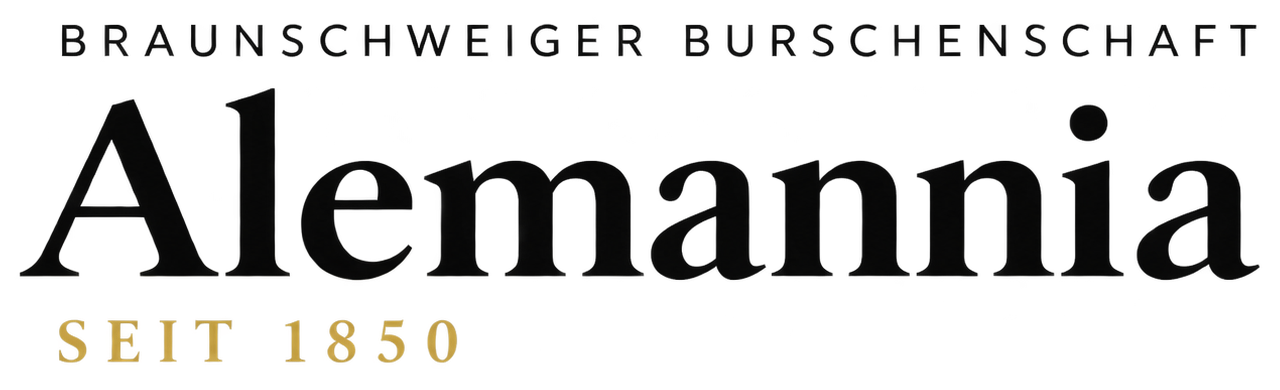
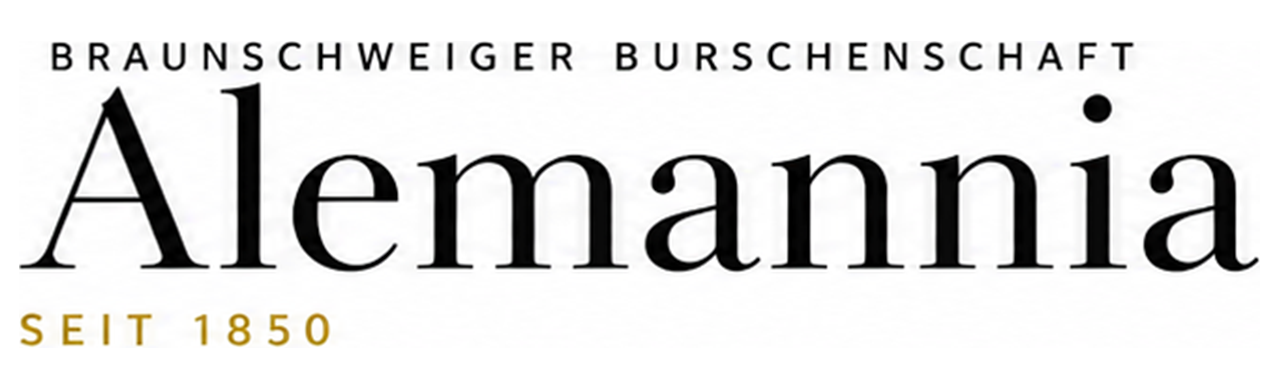
Use elegant wordmark variant

diff --git a/index.html b/index.html
@@ -10,9 +10,8 @@
   <link href="https://fonts.googleapis.com/css2?family=Cormorant+Garamond:wght@500;600&family=Newsreader:opsz,wght@6..72,500;6..72,600&family=Source+Sans+3:wght@400;500;600&display=swap" rel="stylesheet">
   <link rel="stylesheet" href="styles.css?v=20260825-11">
   <style>
-    .brand { position: relative; display: block; width: 365px; height: 112px; cursor: pointer; }
-    .brand-wordmark { width: 100%; height: 100%; object-fit: contain; object-position: left center; }
-    .brand-variant-count { position: absolute; right: 0; bottom: 0; min-width: 34px; padding: 2px 6px; color: var(--muted); background: rgba(255, 255, 255, .9); border: 1px solid var(--line); font-size: 10px; font-weight: 600; line-height: 1.4; text-align: center; }
+    .brand { display: block; width: 365px; }
+    .brand-wordmark { width: 100%; height: auto; }
     .header-crest { width: 220.8px; height: 268.8px; }
     .community-section .lead-columns { grid-template-columns: minmax(0, 760px); }
     .photo-grid { grid-template-rows: repeat(2, 305px); gap: 10px; }
@@ -79,19 +78,18 @@
       #navigation { gap: 20px; }
       #navigation a { font-size: 13px; }
       #navigation .nav-contact { padding-inline: 14px; }
-      .brand { height: 148px; padding-block: 18px; }
+      .brand { padding-block: 18px; }
       .hero { min-height: min(790px, calc(100vh - 148px)); }
     }
     @media (max-width: 1080px) {
-      .brand { width: 290px; height: 88px; }
+      .brand { width: 290px; }
       .header-crest { width: 177.6px; height: 216px; }
       #navigation { gap: 12px; }
       #navigation a { font-size: 11px; }
       #navigation .nav-contact { padding-inline: 8px; }
     }
     @media (max-width: 900px) {
-      .brand { width: 190px; height: 58px; }
-      .brand-variant-count { right: auto; bottom: -14px; left: 0; }
+      .brand { width: 190px; }
       .header-crest { width: 115.2px; height: 148.8px; }
       .values-section .section-heading { padding-right: 0; }
       .values-zirkel { position: static; width: min(70vw, 300px); height: auto; margin: 50px auto 0; }
@@ -111,7 +109,7 @@
       .room-offer-photo { min-height: 460px; }
     }
     @media (max-width: 600px) {
-      .brand { width: 170px; height: 52px; }
+      .brand { width: 170px; }
       .header-crest { width: 88.8px; height: 124.8px; }
       .house-section { width: 100%; padding-inline: 12px; }
       .house-gallery { grid-template-columns: 1fr; gap: 12px; }
@@ -122,13 +120,12 @@
       .room-offer-photo { min-height: 340px; }
     }
   </style>
-  <script src="script.js?v=20260826-1" defer></script>
+  <script src="script.js?v=20260826-2" defer></script>
 </head>
 <body>
   <header class="site-header">
-    <a class="brand" href="#start" aria-label="Wortmarke Variante 1 von 4. Klicken für die nächste Variante" title="Nächste Wortmarke anzeigen">
+    <a class="brand" href="#start" aria-label="Zur Startseite">
       <img class="brand-wordmark" src="alemannia-wortmarke.png" alt="Braunschweiger Burschenschaft Alemannia, seit 1850">
-      <span class="brand-variant-count" aria-live="polite">1 / 4</span>
     </a>
     <nav id="navigation" aria-label="Hauptnavigation">
       <a href="#gemeinschaft">Gemeinschaft</a><a href="#leben">Studentenleben</a><a href="#kontakt">Kennenlernen</a><a href="#haus">Haus &amp; Zimmer</a><a href="#werte">Werte</a><a href="#geschichte">Geschichte</a><a class="nav-contact" href="#kontakt">Kontakt</a>

diff --git a/script.js b/script.js
@@ -1,29 +1,6 @@
 const menuButton = document.querySelector(".menu-button");
 const navigation = document.querySelector("#navigation");
 const navigationLinks = [...navigation.querySelectorAll('a[href^="#"]')];
-const brand = document.querySelector(".brand");
-const brandWordmark = brand.querySelector(".brand-wordmark");
-const brandVariantCount = brand.querySelector(".brand-variant-count");
-const brandVariants = [
-  "alemannia-wortmarke.png",
-  "alemannia-header-2-klassisch.png",
-  "alemannia-header-3-elegant.png",
-  "alemannia-header-4-modern.png",
-];
-let brandVariantIndex = 0;
-
-brandVariants.slice(1).forEach((source) => {
-  const image = new Image();
-  image.src = source;
-});
-
-brand.addEventListener("click", (event) => {
-  event.preventDefault();
-  brandVariantIndex = (brandVariantIndex + 1) % brandVariants.length;
-  brandWordmark.src = brandVariants[brandVariantIndex];
-  brandVariantCount.textContent = `${brandVariantIndex + 1} / ${brandVariants.length}`;
-  brand.setAttribute("aria-label", `Wortmarke Variante ${brandVariantIndex + 1} von ${brandVariants.length}. Klicken für die nächste Variante`);
-});
 
 const closeMenu = () => {
   menuButton.setAttribute("aria-expanded", "false");
